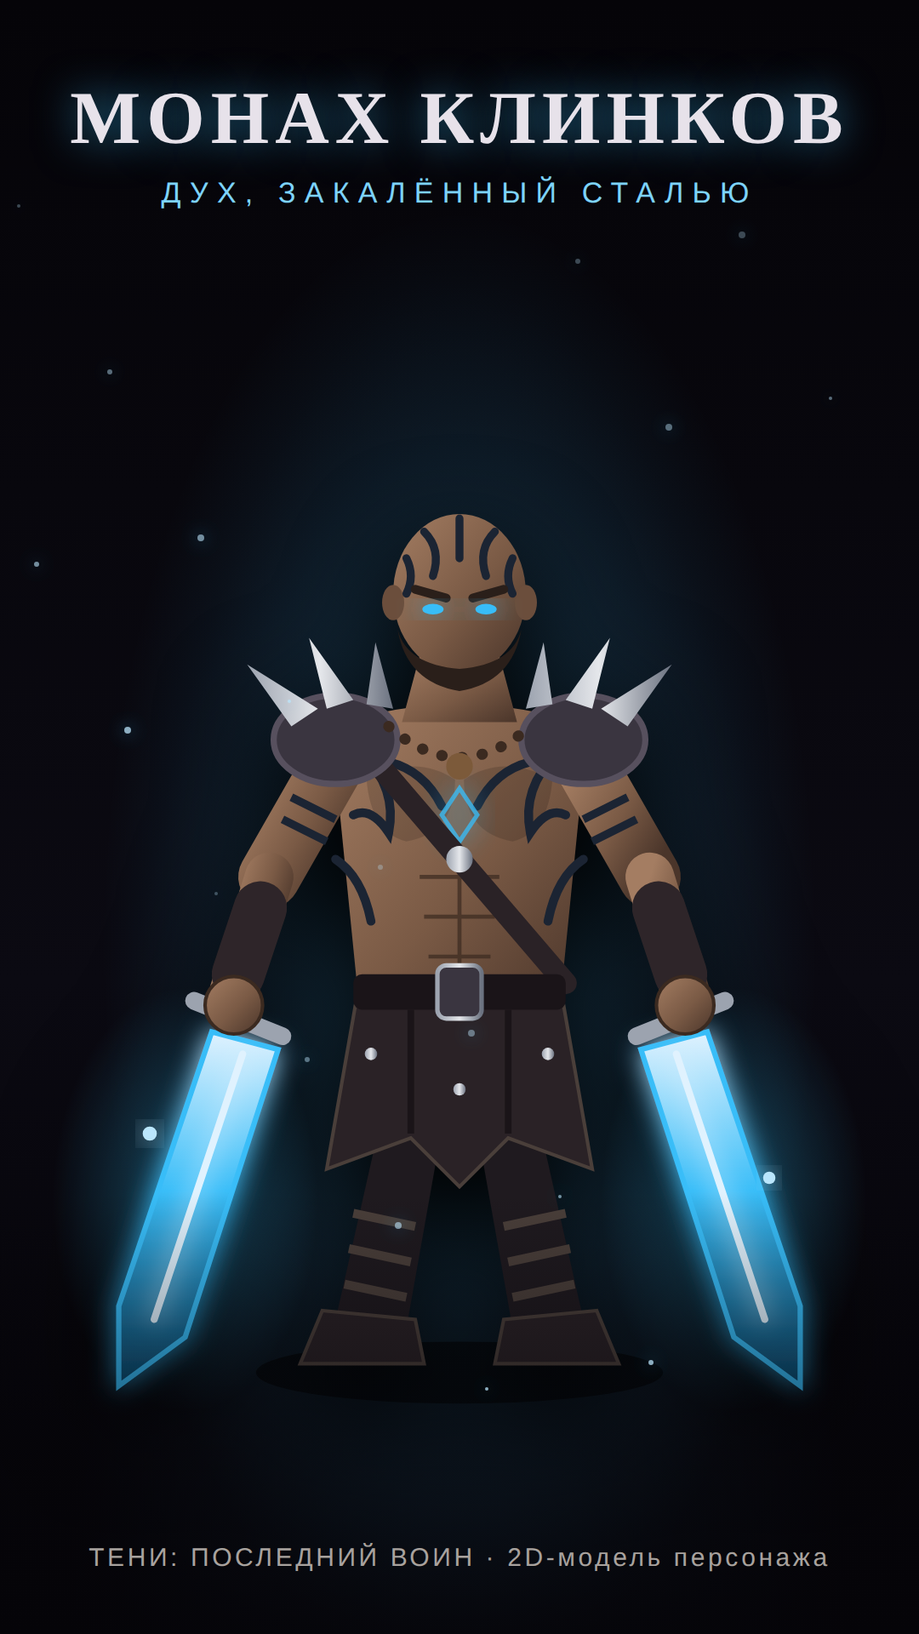
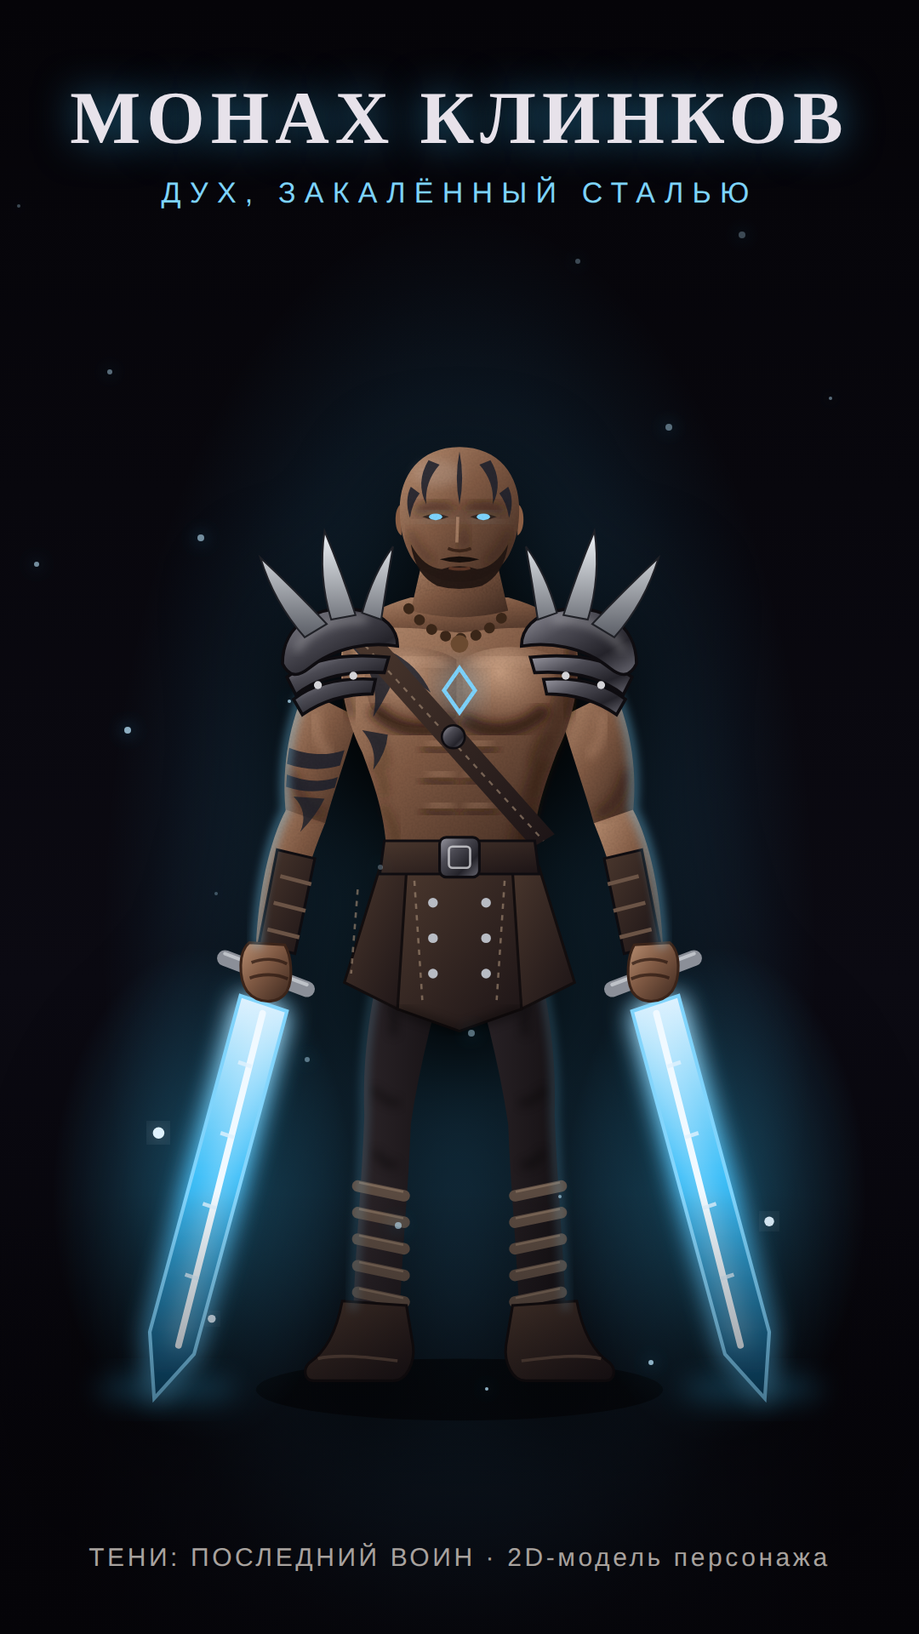
Repaint the Blade Monk model with realistic anatomy and lighting
7.5-head proportions, sculpted muscle shading, face with brow ridge,
nose, cheekbones and beard, fine skin grain, layered steel pauldrons
with highlights, stitched leather and blue rim light cast by the spirit
blades. The monk's portrait crop is adjusted for the smaller head.

Claude-Session: https://claude.ai/code/session_01269BnWa9J9GzRXGAMPx8Cw

Changed region(s): [[0.0917, 0.25, 0.8861, 0.875], [0.6417, 0.8125, 0.6722, 0.8438]]

diff --git a/src/components/HeroModel.tsx b/src/components/HeroModel.tsx
@@ -29,7 +29,7 @@ export function HeroModel({
   const has = (slot: Slot) => !!equipment[slot];
   const weaponGlow = has('weapon') && ['epic', 'legendary', 'mythic'].includes(equipment.weapon!.rarity);
 
-  const viewBox = crop === 'bust' ? '48 34 104 104' : '0 0 200 260';
+  const viewBox = crop === 'bust' ? (classId === 'monk' ? '64 24 72 72' : '48 34 104 104') : '0 0 200 260';
   const id = (n: string) => `${n}-${uid}`;
 
   return (
@@ -397,13 +397,15 @@ function AssassinBody({
   );
 }
 
-const TATTOO = '#1b2433';
-const SPIRIT = '#38bdf8';
 
 /** Mirrors an SVG path horizontally around x = 100 (the model's centre line). */
 const mirror = (d: string) => d.replace(/(-?\d+(?:\.\d+)?) (-?\d+(?:\.\d+)?)/g, (_, x, y) => `${200 - Number(x)} ${y}`);
 
-/** Tattooed monk warrior with spiked pauldrons and twin spirit blades. */
+/**
+ * Realistic tattooed monk warrior: 7.5-head proportions, painted light and
+ * shade, skin grain, layered steel pauldrons and twin spirit blades that
+ * cast blue rim light on the body.
+ */
 function MonkBody({
   id,
   trim,
@@ -415,108 +417,242 @@ function MonkBody({
   has: (slot: Slot) => boolean;
   animate: boolean;
 }) {
-  const skin = `url(#${id('skin')})`;
-  const metal = `url(#${id('metal')})`;
-  const glow = `url(#${id('glow')})`;
-  const bladeFill = `url(#${id('blade')})`;
-  const leather = '#2a2226';
-  const plate = '#3a3540';
-  const hilt = trim('weapon', '#9ca3af');
+  const u = (n: string) => `url(#${id(n)})`;
+  const ink = '#1a1f2b';
+  const shadow = '#2a170f';
+  const leatherLine = '#6b5446';
 
-  // One blade + hilt held in the left hand (viewer side); the right one is mirrored.
-  const bladeL = 'M44 167 L59 171 L38 236 L23 247 L23 229 Z';
-  const coreL = 'M51 172 L31 232';
-  const guardL = 'M40 160 L60 168';
-  const armUpL = 'M73 104 L57 132';
-  const armLowL = 'M57 132 L49 158';
-  const bracerL = 'M55 139 L50 154';
-  const spikesL = 'M62 98 L52 84 L68 94 Z M70 94 L66 78 L76 92 Z M79 93 L81 79 L85 94 Z';
+  // Body silhouettes (also used to clip the skin grain)
+  const HEAD = 'M100 31 C109 31 113.5 37.5 113.5 45 C113.5 49 112.8 52 111.6 54.5 C110 58.5 105.5 61.5 100 61.5 C94.5 61.5 90 58.5 88.4 54.5 C87.2 52 86.5 49 86.5 45 C86.5 37.5 91 31 100 31 Z';
+  const NECK = 'M92 55 L108 55 L111 68 Q100 71 89 68 Z';
+  const TRAPS = 'M89 65 Q80 67.5 72 73.5 L128 73.5 Q120 67.5 111 65 Z';
+  const TORSO = 'M74 73 C82 71 92 72 100 73 C108 72 118 71 126 73 C128 82 126 92 122 100 C119 108 117 114 116.5 122 L83.5 122 C83 114 81 108 78 100 C74 92 72 82 74 73 Z';
+  const DELT = 'M74 73 C68 74 64.5 79 64.5 86 C65 92 67 96 69 98 L77 92 C78 86 78 79 74 73 Z';
+  const UPPER = 'M65 86 C61 95 59.8 105 60.8 114 L69.6 116.2 C71.5 109 74.5 101 77 92 Z';
+  const FORE = 'M60.8 113 C57 120 54.5 132 54 144 L61 146 C62.5 136 66 125 69.6 116 Z';
+  const FIST = 'M52.5 143 C50 145 50 151 52 154 C54.5 157 59 157 61 154 C62.5 151 62 146 60.5 143.5 Z';
+  const skinParts = [HEAD, NECK, TRAPS, TORSO, DELT, mirror(DELT), UPPER, mirror(UPPER), FORE, mirror(FORE), FIST, mirror(FIST)];
+
+  // Gear
+  const BRACER = 'M58.8 122 L67.3 124 L62.8 145.5 L54.6 143.5 Z';
+  const PLATE1 = 'M60 80 C60 71 68 66 78 68 C83 69 86 72 86 76 C80 75 72 76 66 81 C63.5 83 61.5 83 60 80 Z';
+  const PLATE2 = 'M61 83 C66 79 74 77.5 84 78.5 L83 82 C75 81.5 68 83 63 87 Z';
+  const PLATE3 = 'M62.5 88 C67 84.5 73 83 81 83.5 L80.3 86.8 C74 86.8 69 88.3 64.5 91.5 Z';
+  const SPIKES = 'M65 74 Q58 66 55 56 Q63 63.5 70 71 Z M71 70 Q68 60 69.5 50 Q73.5 59.5 76.5 69 Z M78 68.5 Q80.5 59.5 85 53.5 Q83.5 62 82.3 70 Z';
+  const LEG = 'M84 140 C80 155 78 168 78.5 182 C78 196 76.5 212 76 226 L86.5 227 C87 213 88.5 198 89 184 C91 170 95 156 98.5 142 Z';
+  const BOOT = 'M73.5 224 L88 225 L89.5 234 C90 238 88 242 85 242 L67 242 C65 242 64.5 239.5 66 238 C69 236 72 232 73.5 224 Z';
+  const TASSET_C = 'M88 127 L112 127 L114 158 L100 163 L86 158 Z';
+  const TASSET_S = 'M82 126 L89 127 L86 158 L74 152 Z';
+  const BLADE = 'M50.5 155 L61 158.5 L40 236 L31 246 L30 231 Z';
+  const CORE = 'M55.5 159 L36.5 234';
+  const GUARD = 'M47 146.5 L65.5 153.5';
+  const RIM_ARM = 'M54.2 144 C54.5 132 57 120 60.8 113 C60 104 61 95 65 86';
+  const RIM_LEG = 'M76 226 C76.5 212 78 196 78.5 182 C78 168 80 155 84 140';
+
+  const both = (d: string, props: Record<string, unknown>) => (
+    <>
+      <path d={d} {...props} />
+      <path d={mirror(d)} {...props} />
+    </>
+  );
 
   return (
     <g className={animate ? 'model-breathe' : ''}>
-      {/* Spirit light behind the blades */}
-      <ellipse cx="38" cy="205" rx="30" ry="48" fill={`url(#${id('spirit')})`} className={animate ? 'model-aura' : ''} />
-      <ellipse cx="162" cy="205" rx="30" ry="48" fill={`url(#${id('spirit')})`} className={animate ? 'model-aura' : ''} />
+      <defs>
+        <linearGradient id={id('mskin')} x1="0" x2="1" y1="0" y2="1">
+          <stop offset="0%" stopColor="#b88e71" />
+          <stop offset="45%" stopColor="#7f5943" />
+          <stop offset="100%" stopColor="#3b271e" />
+        </linearGradient>
+        <radialGradient id={id('mpec')} cx="40%" cy="30%" r="70%">
+          <stop offset="0%" stopColor="#c49b7e" />
+          <stop offset="100%" stopColor="#6e4a37" />
+        </radialGradient>
+        <linearGradient id={id('mleather')} x1="0" x2="1" y1="0" y2="1">
+          <stop offset="0%" stopColor="#4a372d" />
+          <stop offset="100%" stopColor="#1c1416" />
+        </linearGradient>
+        <linearGradient id={id('mplate')} x1="0" x2="1" y1="0" y2="1">
+          <stop offset="0%" stopColor="#9a99a3" />
+          <stop offset="35%" stopColor="#4b4a53" />
+          <stop offset="70%" stopColor="#24232a" />
+          <stop offset="100%" stopColor="#6b6a74" />
+        </linearGradient>
+        <linearGradient id={id('mspike')} x1="0" x2="0" y1="1" y2="0">
+          <stop offset="0%" stopColor="#5b5e66" />
+          <stop offset="100%" stopColor="#f1f5f9" />
+        </linearGradient>
+        <linearGradient id={id('mcloth')} x1="0" x2="1">
+          <stop offset="0%" stopColor="#2c2529" />
+          <stop offset="100%" stopColor="#141013" />
+        </linearGradient>
+        <filter id={id('soft')} x="-20%" y="-20%" width="140%" height="140%">
+          <feGaussianBlur stdDeviation="1.1" />
+        </filter>
+        <filter id={id('soft2')} x="-50%" y="-50%" width="200%" height="200%">
+          <feGaussianBlur stdDeviation="3" />
+        </filter>
+        <filter id={id('grain')} x="0" y="0" width="100%" height="100%">
+          <feTurbulence type="fractalNoise" baseFrequency="2.2" numOctaves="1" seed="7" />
+          <feColorMatrix type="matrix" values="0 0 0 0 0  0 0 0 0 0  0 0 0 0 0  0 0 0 -1.6 1" />
+        </filter>
+        <clipPath id={id('skinclip')}>
+          {skinParts.map((d, i) => (
+            <path key={i} d={d} />
+          ))}
+        </clipPath>
+      </defs>
 
-      {/* Legs in a wide heroic stance, wrapped shins, boots */}
-      <path d="M86 170 L72 232 L88 234 L99 172 Z" fill="#1f1a1f" />
-      <path d="M114 170 L128 232 L112 234 L101 172 Z" fill="#1f1a1f" />
-      <path d="M76 208 L90 211 M75 216 L89 219 M74 224 L88 227" stroke="#4a3f3a" strokeWidth="2" />
-      <path d="M124 208 L110 211 M125 216 L111 219 M126 224 L112 227" stroke="#4a3f3a" strokeWidth="2" />
-      <path d="M69 230 L90 232 L92 242 L64 242 Z" fill={leather} stroke={trim('boots', '#4a3f3a')} strokeWidth={has('boots') ? 1.6 : 0.8} />
-      <path d="M131 230 L110 232 L108 242 L136 242 Z" fill={leather} stroke={trim('boots', '#4a3f3a')} strokeWidth={has('boots') ? 1.6 : 0.8} />
+      {/* Spirit light behind the blades and on the ground */}
+      <ellipse cx="42" cy="200" rx="34" ry="56" fill={u('spirit')} className={animate ? 'model-aura' : ''} />
+      <ellipse cx="158" cy="200" rx="34" ry="56" fill={u('spirit')} className={animate ? 'model-aura' : ''} />
+      <ellipse cx="34" cy="244" rx="16" ry="3.5" fill="#38bdf8" opacity="0.35" filter={u('soft2')} />
+      <ellipse cx="166" cy="244" rx="16" ry="3.5" fill="#38bdf8" opacity="0.35" filter={u('soft2')} />
 
-      {/* Leather tassets with studs */}
-      <path d="M77 158 L123 158 L130 198 L111 191 L100 202 L89 191 L70 198 Z" fill={leather} stroke={trim('armor', '#4a3f3a')} strokeWidth={has('armor') ? 1.8 : 0.8} />
-      <path d="M89 162 L89 190 M111 162 L111 190" stroke="#1a1418" strokeWidth="1.5" />
-      <circle cx="80" cy="172" r="1.4" fill={metal} />
-      <circle cx="120" cy="172" r="1.4" fill={metal} />
-      <circle cx="100" cy="180" r="1.4" fill={metal} />
-
-      {/* Muscular bare torso */}
-      <path d="M71 98 Q100 88 129 98 L123 158 Q100 165 77 158 Z" fill={skin} />
-      <path d="M79 110 Q90 104 99 110 Q99 122 88 124 Q80 122 79 110 Z M121 110 Q110 104 101 110 Q101 122 112 124 Q120 122 121 110 Z" fill="#000" opacity="0.14" />
-      <path d="M100 126 L100 156 M91 132 L109 132 M92 141 L108 141 M93 150 L107 150" stroke="#3b2a20" strokeWidth="0.9" opacity="0.7" />
-      {/* Tribal tattoos on chest and shoulders */}
-      <path d="M78 104 Q86 112 84 122 Q80 116 76 118 M84 106 Q92 108 96 116 M72 128 Q78 132 80 142" fill="none" stroke={TATTOO} strokeWidth="2" strokeLinecap="round" />
-      <path d={mirror('M78 104 Q86 112 84 122 Q80 116 76 118 M84 106 Q92 108 96 116 M72 128 Q78 132 80 142')} fill="none" stroke={TATTOO} strokeWidth="2" strokeLinecap="round" />
-      <path d="M100 112 L104 118 L100 124 L96 118 Z" fill="none" stroke={SPIRIT} strokeWidth="1" opacity="0.8" filter={glow} />
-
-      {/* Chest harness and belt */}
-      <path d="M76 100 L124 156" stroke={leather} strokeWidth="5" strokeLinecap="round" />
-      <circle cx="100" cy="128" r="3" fill={metal} />
-      <rect x="76" y="154" width="48" height="8" rx="2" fill="#1a1418" />
-      <rect x="95" y="152" width="10" height="12" rx="2" fill={plate} stroke={metal} strokeWidth="1" />
-
-      {/* Arms: muscles, tattoo bands, bracers */}
-      <path d={armUpL} stroke={skin} strokeWidth="14" strokeLinecap="round" />
-      <path d={armLowL} stroke={skin} strokeWidth="11" strokeLinecap="round" />
-      <path d={mirror(armUpL)} stroke={skin} strokeWidth="14" strokeLinecap="round" />
-      <path d={mirror(armLowL)} stroke={skin} strokeWidth="11" strokeLinecap="round" />
-      <path d="M62 114 L72 119 M60 119 L70 124" stroke={TATTOO} strokeWidth="1.8" />
-      <path d={mirror('M62 114 L72 119 M60 119 L70 124')} stroke={TATTOO} strokeWidth="1.8" />
-      <path d={bracerL} stroke={leather} strokeWidth="12" strokeLinecap="round" />
-      <path d={mirror(bracerL)} stroke={leather} strokeWidth="12" strokeLinecap="round" />
-      <path d={bracerL} stroke={trim('gloves', '#4a3f3a')} strokeWidth="12" strokeOpacity={has('gloves') ? 0.5 : 0.15} strokeLinecap="round" fill="none" />
-      <path d={mirror(bracerL)} stroke={trim('gloves', '#4a3f3a')} strokeWidth="12" strokeOpacity={has('gloves') ? 0.5 : 0.15} strokeLinecap="round" fill="none" />
-
-      {/* Twin spirit blades */}
-      {[false, true].map((m) => (
-        <g key={String(m)}>
-          <path d={m ? mirror(bladeL) : bladeL} fill={bladeFill} stroke={SPIRIT} strokeWidth="1.2" filter={glow} />
-          <path d={m ? mirror(coreL) : coreL} stroke="#e0f2fe" strokeWidth="1.6" strokeLinecap="round" filter={glow} className={animate ? 'model-orb' : ''} />
-          <path d={m ? mirror(guardL) : guardL} stroke={hilt} strokeWidth="4" strokeLinecap="round" />
+      {/* Legs: dark cloth, folds, shin wraps, boots */}
+      {both(LEG, { fill: u('mcloth') })}
+      {both('M82 150 Q86 156 85 164 M80.5 176 Q84 180 86.5 179 M81 190 Q83 194 86 193', { fill: 'none', stroke: '#000', strokeWidth: 1.4, opacity: 0.45, filter: u('soft') })}
+      {[198, 204, 210, 216, 222].map((y) => (
+        <g key={y}>
+          {both(`M77 ${y} L87.5 ${y + 2.2}`, { stroke: '#5a4a40', strokeWidth: 2.6, strokeLinecap: 'round' })}
+          {both(`M77.3 ${y - 0.8} L87.3 ${y + 1.3}`, { stroke: '#8a7462', strokeWidth: 0.5, opacity: 0.7 })}
         </g>
       ))}
-      <circle cx="49" cy="161" r="6.5" fill={skin} stroke="#3b2a20" strokeWidth="0.8" />
-      <circle cx="151" cy="161" r="6.5" fill={skin} stroke="#3b2a20" strokeWidth="0.8" />
-      {has('ring') && <circle cx="45" cy="163" r="2" fill={trim('ring')} filter={glow} />}
-      <circle cx="30" cy="190" r="1.6" fill="#bae6fd" filter={glow} className={animate ? 'model-orb' : ''} />
-      <circle cx="170" cy="200" r="1.4" fill="#bae6fd" filter={glow} className={animate ? 'model-orb' : ''} />
+      {both(BOOT, { fill: u('mleather'), stroke: trim('boots', '#120d0e'), strokeWidth: has('boots') ? 1.4 : 0.6 })}
+      {both('M68 237 C72 236 78 236.5 86 237.5', { fill: 'none', stroke: leatherLine, strokeWidth: 0.7, opacity: 0.8 })}
 
-      {/* Spiked pauldrons */}
-      <ellipse cx="72" cy="101" rx="14" ry="10" fill={plate} stroke={trim('armor', '#57505e')} strokeWidth="1.4" />
-      <ellipse cx="128" cy="101" rx="14" ry="10" fill={plate} stroke={trim('armor', '#57505e')} strokeWidth="1.4" />
-      <path d={spikesL} fill={metal} />
-      <path d={mirror(spikesL)} fill={metal} />
+      {/* Blue rim light on the legs */}
+      {both(RIM_LEG, { fill: 'none', stroke: '#7dd3fc', strokeWidth: 1.1, opacity: 0.35, filter: u('soft') })}
 
-      {/* Neck, prayer beads, head */}
-      <path d="M91 82 L109 82 L113 97 L87 97 Z" fill={skin} />
-      <path d="M84 98 Q100 112 116 98" fill="none" stroke="#3b2a20" strokeWidth="2.5" strokeDasharray="0.1 4.5" strokeLinecap="round" />
-      <circle cx="100" cy="107" r="3" fill={trim('amulet', '#7c5a3a')} filter={has('amulet') ? glow : undefined} />
-      <ellipse cx="100" cy="68" rx="15" ry="18" fill={skin} />
-      <path d="M86 76 Q88 88 100 90 Q112 88 114 76 Q112 84 100 85 Q88 84 86 76 Z" fill="#2a1f1a" />
-      <ellipse cx="85" cy="70" rx="2.5" ry="4" fill="#6b4e3c" />
-      <ellipse cx="115" cy="70" rx="2.5" ry="4" fill="#6b4e3c" />
-      {/* Scalp tattoo */}
-      <path d="M100 51 L100 60 M92 54 Q96 58 94 64 M108 54 Q104 58 106 64 M88 60 Q90 64 88 68 M112 60 Q110 64 112 68" fill="none" stroke={TATTOO} strokeWidth="1.8" strokeLinecap="round" />
-      {has('helmet') && <path d="M86 62 Q100 56 114 62" fill="none" stroke={trim('helmet')} strokeWidth="2.5" />}
-      {/* Brow and glowing eyes */}
-      <path d="M90 67 L97 69 M110 67 L103 69" stroke="#2a1f1a" strokeWidth="2" strokeLinecap="round" />
-      <g filter={glow}>
-        <ellipse cx="94" cy="71.5" rx="2.4" ry="1.2" fill={SPIRIT} />
-        <ellipse cx="106" cy="71.5" rx="2.4" ry="1.2" fill={SPIRIT} />
+      {/* Leather tassets with stitching and studs */}
+      {both(TASSET_S, { fill: u('mleather'), stroke: trim('armor', '#120d0e'), strokeWidth: has('armor') ? 1.4 : 0.6 })}
+      <path d={TASSET_C} fill={u('mleather')} stroke={trim('armor', '#120d0e')} strokeWidth={has('armor') ? 1.4 : 0.6} />
+      <path d="M89.8 129 L91.6 156 M110.2 129 L108.4 156 M77 131 L75.5 150" fill="none" stroke="#a88f78" strokeWidth="0.5" strokeDasharray="1.2 1.4" opacity="0.6" />
+      {[134, 142, 150].map((y) => (
+        <g key={y}>
+          <circle cx="94" cy={y} r="1.1" fill="#b8bcc4" />
+          <circle cx="106" cy={y} r="1.1" fill="#b8bcc4" />
+        </g>
+      ))}
+      <path d="M86 158 L100 163 L114 158" fill="none" stroke="#000" strokeWidth="2" opacity="0.4" filter={u('soft')} />
+
+      {/* Arms (behind torso edges) */}
+      {both(UPPER, { fill: u('mskin') })}
+      {both(FORE, { fill: u('mskin') })}
+      {/* biceps / triceps shading */}
+      {both('M62 104 C63.5 110 66 113 69 114', { fill: 'none', stroke: shadow, strokeWidth: 2.2, opacity: 0.5, filter: u('soft') })}
+      {both('M71 101 C68.5 99 67 95 67.5 91', { fill: 'none', stroke: '#e0b393', strokeWidth: 1.6, opacity: 0.35, filter: u('soft') })}
+      {both('M58 126 C59 131 60 136 59.5 141', { fill: 'none', stroke: shadow, strokeWidth: 1.6, opacity: 0.45, filter: u('soft') })}
+      {/* arm tattoo bands (right arm only) */}
+      <path d="M61.5 99 C65 100.5 70 101 74 99.5 L73 103 C69 104.2 65 104 61 102.6 Z M61 105 C64.5 106.5 69 107 72.5 105.6 L71.8 108 C68 109.2 64.5 109 60.8 107.8 Z" fill={ink} opacity="0.85" />
+      <path d="M62.5 110 Q66 113.5 64 118 Q67.5 114.5 69.5 110.5 Z" fill={ink} opacity="0.8" />
+
+      {/* Torso */}
+      <path d={TRAPS} fill={u('mskin')} />
+      <path d={NECK} fill={u('mskin')} />
+      <path d={TORSO} fill={u('mskin')} />
+      {/* pecs with light from the upper left */}
+      {both('M79 78 C86 75 95 76 99.3 79 L99.3 92 C93 96 85 95 80 90 C78.5 86 78.2 82 79 78 Z', { fill: u('mpec') })}
+      {both('M80.5 90 C86 96 94 96.5 99.3 92.5', { fill: 'none', stroke: shadow, strokeWidth: 3.2, opacity: 0.8, filter: u('soft') })}
+      {both('M82 80 C87 78 93 78.5 97 80.5', { fill: 'none', stroke: '#e6bea0', strokeWidth: 1.6, opacity: 0.35, filter: u('soft') })}
+      {both('M76 92 C74 88 73.5 82 75 76', { fill: 'none', stroke: shadow, strokeWidth: 1.8, opacity: 0.55, filter: u('soft') })}
+      <path d="M100 78 L100 121" stroke={shadow} strokeWidth="1.4" opacity="0.45" filter={u('soft')} />
+      {/* abs */}
+      {[99, 106, 113].map((y) => <g key={y}>{both(`M91.5 ${y} Q96 ${y + 1.6} 99.4 ${y + 0.6}`, { fill: 'none', stroke: shadow, strokeWidth: 1.6, opacity: 0.7, filter: u('soft') })}</g>)}
+      {[96, 103, 110].map((y) => <g key={y}>{both(`M93 ${y + 2} Q96 ${y + 1} 98.5 ${y + 2.4}`, { fill: 'none', stroke: '#e0b393', strokeWidth: 1.5, opacity: 0.35, filter: u('soft') })}</g>)}
+      {/* serratus / obliques */}
+      {both('M80.5 96 Q84 99.5 83.2 103.5 M80 102 Q83.5 105.5 83 110 M82.5 112 Q86 117 85.5 121', { fill: 'none', stroke: shadow, strokeWidth: 1.2, opacity: 0.45, filter: u('soft') })}
+      {/* form shadow on the far side of the body */}
+      <path d="M126 73 C128 82 126 92 122 100 C119 108 117 114 116.5 122 L111 122 C112.5 112 116.5 102 119.5 94 C122.5 86 124 79 126 73 Z" fill={shadow} opacity="0.4" filter={u('soft')} />
+      {/* chest & shoulder tattoo */}
+      <path d="M75.5 76 Q82.5 83 80.5 92 Q84.5 86 86.5 80 Q83.5 77.5 75.5 76 Z M84 77 Q90.5 80 93.5 86.5 Q88 82.5 82.8 81.5 Z M78 95 Q81.5 99 80.5 104 Q83.5 100 83.8 96 Z" fill={ink} opacity="0.82" />
+      <path d="M100 81 L103.5 86 L100 91 L96.5 86 Z" fill="none" stroke="#7dd3fc" strokeWidth="0.9" filter={u('glow')} className={animate ? 'model-orb' : ''} />
+
+      {/* Skin grain over every bare surface */}
+      <rect x="40" y="25" width="120" height="140" filter={u('grain')} clipPath={u('skinclip')} opacity="0.07" />
+
+      {/* Harness, belt and buckle */}
+      <path d="M76 76 L81 73 L121.5 118.5 L116.5 121.5 Z" fill={u('mleather')} />
+      <path d="M78.6 75.8 L119 120" stroke="#a88f78" strokeWidth="0.45" strokeDasharray="1.2 1.4" opacity="0.6" />
+      <circle cx="98.6" cy="96.5" r="2.6" fill={u('mplate')} stroke="#0e0c10" strokeWidth="0.5" />
+      <path d="M83 120 L117 120 L118 127.5 L82 127.5 Z" fill={u('mleather')} stroke="#0e0c10" strokeWidth="0.6" />
+      <rect x="95.5" y="119.2" width="9" height="9" rx="1.5" fill={u('mplate')} stroke="#0e0c10" strokeWidth="0.6" />
+      <rect x="97.6" y="121.3" width="4.8" height="4.8" rx="0.8" fill="none" stroke="#d4d4d8" strokeWidth="0.5" opacity="0.8" />
+
+      {/* Bracers */}
+      {both(BRACER, { fill: u('mleather'), stroke: '#0e0c10', strokeWidth: 0.6 })}
+      {both('M59.5 128 L66.5 129.8 M58 134 L65.2 135.8 M56.6 140 L63.8 141.8', { stroke: trim('gloves', leatherLine), strokeWidth: has('gloves') ? 1.4 : 0.9 })}
+
+      {/* Twin spirit blades */}
+      {[false, true].map((m) => {
+        const f = (d: string) => (m ? mirror(d) : d);
+        return (
+          <g key={String(m)}>
+            <path d={f(BLADE)} fill="#38bdf8" opacity="0.55" filter={u('soft2')} className={animate ? 'model-orb' : ''} />
+            <path d={f(BLADE)} fill={u('blade')} stroke="#7dd3fc" strokeWidth="0.8" filter={u('glow')} />
+            <path d={f(CORE)} stroke="#f0f9ff" strokeWidth="1.5" strokeLinecap="round" filter={u('glow')} />
+            <path d={f('M50 170 L53 171 M46 186 L49 187 M42 202 L45 203 M38 218 L41 219')} stroke="#e0f2fe" strokeWidth="0.9" opacity="0.8" />
+            <path d={f(GUARD)} stroke={trim('weapon', '#8b8f98')} strokeWidth="3.6" strokeLinecap="round" />
+            <path d={f(GUARD)} stroke="#f1f5f9" strokeWidth="0.8" strokeLinecap="round" opacity="0.5" transform="translate(0 -1)" />
+          </g>
+        );
+      })}
+      {both(FIST, { fill: u('mskin'), stroke: '#3b2419', strokeWidth: 0.6 })}
+      {both('M53 147.5 C55.5 146.5 58.5 146.5 61 147.8 M52.6 151 C55.3 150 58.6 150 61.2 151.2', { fill: 'none', stroke: shadow, strokeWidth: 0.7, opacity: 0.7 })}
+      {has('ring') && <circle cx="53.5" cy="149.5" r="1.6" fill={trim('ring')} filter={u('glow')} />}
+      {/* blue rim light on arms */}
+      {both(RIM_ARM, { fill: 'none', stroke: '#7dd3fc', strokeWidth: 1.4, opacity: 0.6, filter: u('soft') })}
+      <circle cx="32" cy="186" r="1.3" fill="#e0f2fe" filter={u('glow')} className={animate ? 'model-orb' : ''} />
+      <circle cx="170" cy="206" r="1.1" fill="#e0f2fe" filter={u('glow')} className={animate ? 'model-orb' : ''} />
+      <circle cx="44" cy="228" r="0.9" fill="#e0f2fe" filter={u('glow')} />
+
+      {/* Layered spiked pauldrons */}
+      {[false, true].map((m) => {
+        const f = (d: string) => (m ? mirror(d) : d);
+        const edge = trim('armor', '#0e0c10');
+        return (
+          <g key={`p${m}`}>
+            <path d={f(PLATE3)} fill={u('mplate')} stroke={edge} strokeWidth="0.7" />
+            <path d={f(PLATE2)} fill={u('mplate')} stroke={edge} strokeWidth="0.7" />
+            <path d={f(PLATE1)} fill={u('mplate')} stroke={edge} strokeWidth={has('armor') ? 1.3 : 0.7} />
+            <path d={f('M63 77 C66 72 72 69.5 79 70')} fill="none" stroke="#fff" strokeWidth="1" opacity="0.45" filter={u('soft')} />
+            <path d={f(SPIKES)} fill={u('mspike')} stroke="#1f2026" strokeWidth="0.4" />
+            <circle cx={m ? 132 : 68} cy="84.8" r="0.9" fill="#d4d4d8" />
+            <circle cx={m ? 124 : 76} cy="82.7" r="0.9" fill="#d4d4d8" />
+          </g>
+        );
+      })}
+
+      {/* Prayer beads */}
+      <path d="M88.5 67.5 Q100 81 111.5 67.5" fill="none" stroke="#3a2618" strokeWidth="2.4" strokeDasharray="0.1 3.4" strokeLinecap="round" />
+      <circle cx="100" cy="75.5" r="2" fill={trim('amulet', '#6b4a30')} filter={has('amulet') ? u('glow') : undefined} />
+
+      {/* Head */}
+      {both('M86.8 44 C85.2 44.5 85 50 86.9 51 Z', { fill: '#8a5e44' })}
+      <path d={HEAD} fill={u('mskin')} />
+      <ellipse cx="95" cy="37" rx="5.5" ry="3" fill="#fff" opacity="0.13" filter={u('soft')} />
+      {/* scalp tattoo */}
+      <path d="M100 32 Q98.8 38 100 44 Q101.2 38 100 32 Z" fill={ink} opacity="0.85" />
+      {both('M93 34 Q90 39 92.5 44 Q92 39 95.5 35 Z M89 40 Q87.5 43 88.8 47 Q89.4 43.5 91 41.5 Z', { fill: ink, opacity: 0.85 })}
+      {has('helmet') && <path d="M87 43 Q100 39 113 43" fill="none" stroke={trim('helmet')} strokeWidth="1.6" />}
+      {/* brow ridge, eye sockets, glowing eyes */}
+      {both('M90 44.5 Q95 42.3 99 44.3 L99 45.8 Q95 44.8 90 46.5 Z', { fill: shadow, opacity: 0.6, filter: u('soft') })}
+      {both('M91.6 46.8 Q94.6 45.4 97.6 46.8 Q94.6 48.2 91.6 46.8 Z', { fill: '#1f120c', opacity: 0.8 })}
+      <g filter={u('glow')}>
+        <ellipse cx="94.6" cy="46.8" rx="1.5" ry="0.75" fill="#7dd3fc" />
+        <ellipse cx="105.4" cy="46.8" rx="1.5" ry="0.75" fill="#7dd3fc" />
       </g>
+      {/* nose, cheekbones */}
+      <path d="M100.6 46.5 Q102.4 50.8 102.3 53.3 Q101 54.2 99.6 53.8 Z" fill={shadow} opacity="0.35" filter={u('soft')} />
+      <path d="M99.6 46.8 L99.4 52.6" stroke="#e0b393" strokeWidth="0.7" opacity="0.45" />
+      <path d="M97.4 53.9 Q100 55.1 102.6 53.9" fill="none" stroke="#3a2419" strokeWidth="0.7" />
+      {both('M88.8 50 Q90.8 54.8 94 57', { fill: 'none', stroke: shadow, strokeWidth: 1.8, opacity: 0.35, filter: u('soft') })}
+      {/* short beard and moustache */}
+      <path d="M89 53 Q90 60 95 62.4 Q100 63.8 105 62.4 Q110 60 111 53 Q108 58.4 104 58.6 Q100 57.3 96 58.6 Q92 58.4 89 53 Z" fill="#1f1511" opacity="0.92" />
+      <path d="M95.5 56.4 Q100 55 104.5 56.4 Q100 57.8 95.5 56.4 Z" fill="#170f0c" />
+      <path d="M97.6 58.3 Q100 58.9 102.4 58.3" fill="none" stroke="#5a3526" strokeWidth="0.7" />
+      {/* face grain */}
+      <rect x="84" y="30" width="32" height="34" filter={u('grain')} clipPath={u('skinclip')} opacity="0.06" />
     </g>
   );
 }
